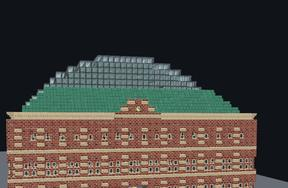
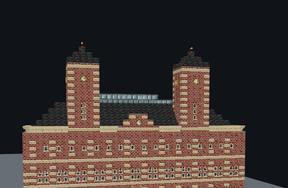
Fresh Studio thumbnails, docs and changelog for the realistic looks
studio_thumbs.mjs takes a port so it can run beside another Studio.

diff --git a/docs/STATION_GENERATOR.md b/docs/STATION_GENERATOR.md
@@ -59,7 +59,7 @@ Examples:
 | Style | modern; dutch/utrecht/leidsche rijn; german/s-bahn/hamburg; metro/u-bahn | modern |
 | Roof | `no roof`/`open`; `canopy`/`covered`; `hall`/`train shed` | canopy |
 | Canopy shape | `flat`; `butterfly`/`v roof`; `gable`/`gabled`/`heritage`/`pitched` (asks for canopies when no roof is given) | the building look's own (see **Canopies**) |
-| Train shed shape | `flat roof`; `arched`/`barrel`/`vault`/`curved`; `pointed`; `arches`/`vaults`/`multi span`/`several arches` (asks for a train shed) | the building look's own |
+| Train shed shape | `flat roof`; `arched`/`barrel`/`vault`/`curved`; `pointed`; `arches`/`vaults`/`multi span`/`several arches`; `ridge`/`furrow` (ridge-and-furrow pitched roofs) (asks for a train shed) | the building look's own |
 | Roof material | `glass`, `timber`/`wooden roof`, `steel` | style's own |
 | Floor | `light/dark paving`, `concrete`, `terrazzo`, `granite` | style's own |
 | Access | `step-free` (ramps at both platform ends), `no ramps`; `no tactile` | ramps and tactile edges on |
@@ -96,22 +96,23 @@ A girder block under each ridge, and butterfly fold joins the raised roof to the
 A hall roof is a train shed over every track and platform, framed in **station girders**: a connecting I-section block that joins girders on all six sides and any full wall face, so a frame reads as one piece instead of loose beams. Its colour follows the building look (steel, white, Gothic blue, Antwerp/Amsterdam/Grand Central/Paris green) and cycles with an empty-hand right-click.
 
 - **Frame:** columns on the platforms carry cross girders at regular rows (shifted a block or two where stairs, screens or doors are in the way), and longitudinal girders run along every column line, the eaves, the valleys and purlins so no roof span is longer than 8. Cross girders over a footbridge stand on short piers on its roof.
-- **Shapes:** flat; arched (a parabolic barrel vault); pointed (a two-centred Gothic arch, St Pancras); several arches (one vault per track pair, valleys over the platforms, Frankfurt). Vaults are glass above a clad lower band, with stepped girder ribs at every frame row and both ends, and a terminus gets a glass end screen over the head building.
+- **Shapes:** flat; arched (a parabolic barrel vault); pointed (a two-centred Gothic arch, St Pancras); several arches (one vault per track pair, valleys over the platforms, Frankfurt); ridge and furrow (one pitched roof per track pair with glass along each ridge, Mumbai, Kuala Lumpur and Zurich). Arched sheds rise less for flatter real halls (Berlin, Amsterdam, Bangkok, Hamburg). Vaults are glass above a clad lower band, with stepped girder ribs at every frame row and both ends, and a terminus gets a glass end screen over the head building.
 - **Heights:** the beams rise to 8 for an arched shed 16 or more wide, and to 11 over a footbridge or a building beside the tracks, so a shed now combines with both.
 - Every shape x building look x layout (1020 plans) passes the design rules and the station checks in a unit test.
 
 ## Station buildings and footbridge
 
-A building stands on the street side, 9 deep, over the middle of the platforms: an entrance ramp from the street, a ticket hall with a fare gate line (a wide gate in the middle), a ticket office window, MTR ticket machines, an information kiosk, benches, a clock over the entrance and departure boards on the end walls. A stair in the hall leads to the upper floor and the footbridge, whose stairs go down to every platform it serves.
+A building stands on the street side, 9 deep, over the middle of the platforms: an entrance ramp from the street, a ticket hall with a fare gate line (a wide gate in the middle), a ticket office window, MTR ticket machines, an information kiosk, benches, a clock over the entrance and departure boards on the end walls. An MTR station name panel (3 wide) hangs over every street door and an MTR tactile map stands just inside it; the name is left for you to write. A stair in the hall leads to the upper floor and the footbridge, whose stairs go down to every platform it serves.
 
 - **Building size** (`compact`, `city`/`regional`, `grand`/`monumental`/`hauptbahnhof`): a compact building is the two-storey block above. A **city** building adds a third storey and two-storey wings along the platform on both sides, covering about 70% of its length. A **grand** building has four storeys, wings along about 92% of the platform ending in three-storey pavilions, a clock tower over the entrance (clock faces on three sides, a pyramid cap), and a taller train shed. Masonry looks get hipped roofs (green copper for Amsterdam, Antwerp and Beaux-Arts; slate for St Pancras, Frankfurt and Hamburg); Modern and Munich stay flat. The wings' ground floors are waiting rooms on the paid side with a doorway onto platform 1 in every bay and benches along the street wall. Without a size word, a building is grand for 3 or more tracks or a platform of 100 or more, city for 2 tracks and 48 or more, otherwise compact. A terminus's head building grows the same way: a city one gets a storey over the whole concourse, a grand one two, and its street front follows the look (see **Terminus fronts** below).
 - **Upstairs waiting room** (buildings of three bays or more, with furniture): the end bay away from the hall stair is closed off by a framed glass partition with one doorway. Inside are benches along both long walls, bins in the far corners, a departure board on the end wall and a hanging clock. It is left out when that bay would touch the stair or the footbridge door.
 - **Terminus** (`terminus`): the tracks end at buffer stops (steel beams across each track's clearance, just past the last rail node) in front of a head building 12 deep across the whole width. Its floor runs level from the platform ends; the platform side is an open arcade under a lintel with clerestory windows. Two rows in from the buffers a gate line crosses every platform (a wide gate in the middle of each, glass barriers behind the tracks); departure boards and a clock hang over it facing the concourse. The concourse has the ticket office, MTR ticket machines, the kiosk and benches, a 3-wide street entrance with ramps, and roof lights. Every platform, islands included, is reached step-free through the gates, so a terminus needs no footbridge, and it may have a hall roof (a train shed) over the platforms. Ramps are only built at the open end.
 - **Terminus fronts** (city and grand termini; `BuildingStyle.Facade`): the street front of the head building is one of four kinds, from a photo study of 15 real terminals. Compact termini keep the plain front.
-  - **Red brick with towers** (Amsterdam, St Pancras, Tokyo): a hipped roof; Amsterdam gets twin clock towers at a quarter and three quarters of the front with a stepped gable between, St Pancras one tower with a tall spire, Tokyo copper-domed corner pavilions and a domed clock tower (a gable with a clock at city size).
+  - **Red brick with towers** (Amsterdam, St Pancras, Tokyo): a hipped roof; Amsterdam gets twin clock towers at a quarter and three quarters of the front with a stepped gable between, St Pancras one tower with a slate spire and pinnacles, Tokyo slate-domed octagonal corner pavilions and a domed clock tower (a gable with a clock at city size) over a round-arched entrance and arcade. The twin towers and the St Pancras spire also come at city size. Pointed arches frame the St Pancras and Mumbai entrances.
   - **Giant arched windows** (Zurich, Antwerp, Hamburg, Frankfurt): whole-block glass in a stone ring, with glazing bars, rising almost to the roof; one arch over the entrance (Zurich, Antwerp), two (Hamburg, with its clock tower near one end) or three (Frankfurt). Antwerp's tower has a dome; Zurich has an attic with a clock and statues instead of a tower.
   - **Beaux-Arts** (Grand Central, Paris, Milan): a flat roof, tall round-headed windows between pairs of quartz columns (three, or one great window for Paris and narrow fronts), and a raised attic over the entrance with a clock and a statue group. Paris adds statues along the parapet; a grand Milan steps up to a second, taller attic.
-  - **Glass** (Utrecht, Munich, Berlin, Hong Kong, Beijing): a curtain wall with mullions every three blocks and a band at each floor; Munich adds a deep concrete canopy over the street, a grand Berlin a tall glass tower near one corner (fronts 20 or more wide), Hong Kong a white roof that sweeps up to a crest, and Beijing a roof running two blocks out over the street with its edge turned up.
+  - **Glass** (Utrecht, Munich, Berlin, Hong Kong, Beijing): a curtain wall with mullions every three blocks and a band at each floor; Munich adds a deep concrete canopy over the street, a grand Berlin a tall glass tower near one corner (fronts 20 or more wide), Hong Kong a white roof that sweeps up to a crest with glazed ends, Utrecht a low wave roof, and Beijing a roof running two blocks out over the street with its edge and corners turned up. Munich has ribbon windows without mullions.
+  - **Asian heritage** (Bangkok, Kuala Lumpur, Mumbai): Bangkok a low segmental glass vault over the entrance with a clock, columns along the front and flat-roofed end pavilions; Kuala Lumpur a raised attic with pinnacles, octagonal corner towers with open domed kiosks (chhatris), kiosks along the parapet and pointed arches along the ground floor; Mumbai a red-tiled roof, a banded pointed entrance arch, an onion-domed octagonal clock tower in the middle, spired corner towers and smaller domes between.
 - **Hub** (`hub`): a terminus whose outer tracks carry on through. The split grows with size (`StationGeometry.hubThrough`): 4 and 6 tracks keep one through track a side; 8 and 10 tracks get two a side, so the outermost islands have trains running through on both sides (like a big interchange where the outer pairs run on and the middle ones end). Narrow platforms (under 6 wide, too narrow for a lift) keep one a side. The inner tracks end at buffer stops in front of the head building as above; the head building spans the platforms beside a bay track and its side walls stand just outside the outer bay tracks, so every buffer stop is indoors (`TrackLayout.bay(PlatformBand)`, `headFrom()`, `headTo()`); the through tracks pass beside it to the far end of the site (their rail nodes stay at the platform ends; extend the line from there past the hall). The street in front of the head is open ground. Islands with no bay track get a footbridge across every platform with stairs and a lift on each (`StationLayout.outerIslands`), so every platform stays step-free through the gates. The train shed covers all tracks.
 - **Wayfinding at a terminus:** each platform gets its own colour (blue, green, orange, yellow in turn, from the metro tiles) as a floor stripe either side of its gates and on the lintel above them, with a big platform number sign hung under the lintel. On a footbridge, each platform also gets a number sign under the deck beside its pier.
 - **Street entrance:** a through station with island platforms needs a way onto them that does not cross a track. A building's footbridge gives one; without a building the station gets a footbridge of its own. When a side platform is on an edge, its stair is the way up. When tracks run along both edges, a street entrance 6 wide stands beside the first track (`StationGeometry.streetEntrance`, `StationLayout.street()`): paved like the platforms with ramps at both ends, railed off along the track, with a glazed stair and a lift up to the footbridge, laid out as on a side platform. A train shed starts at the first track, so the entrance stays open to the sky.

diff --git a/CHANGELOG.md b/CHANGELOG.md
@@ -7,13 +7,13 @@
 - **Describe a station and it is built:** plain English in, ATA blocks out. 1 to 10 tracks (up to 20 with platforms one by one), 16 to 300 blocks long, side or island platforms, roofs, ramps, name signs, rail nodes at the platform ends. `/ata_station plan` shows an outline, `/ata_station confirm` builds it; cancel and undo work at any point. Fully offline, operators only. Terrain is only changed after you approve it, and existing MTR rail nodes are never touched. See docs/STATION_GENERATOR.md.
 - **Station Wrench:** the generator without commands. Pick a city look (and one to mix in), station, terminus or hub, tracks, platforms, width, length, roof, building and name, then *Place in front of me*, *Build it!*, *Undo* or *Clear*. A 3D preview updates as you go. Eighteen presets and a typed description are on the Advanced page.
 - **Station Studio:** the same generator in your browser, on your own computer (`/ata_studio` or the wrench button). Big 3D preview with the game's own models, several views (including a terminus front from the street), and buttons that build in your world. Listens on 127.0.0.1 only. **Walk** through the planned station in first person, from the street through the gates to the platforms, riding escalators, travelators and lifts.
-- **Eighteen city looks:** Utrecht, Amsterdam, St Pancras, Antwerp, Frankfurt, Hamburg, Munich, Grand Central, Tokyo, Zurich, Paris, Milan, Berlin, Hong Kong, Beijing, Bangkok (Hua Lamphong's great arched window between white columns), Kuala Lumpur (white walls, a dome, minarets and domed kiosks) and Mumbai (CSMT's sandstone, Gothic turrets and great stone dome), plus words such as london, swiss or japan. Looks can be mixed: "american station, utrecht and hamburg combined".
+- **Eighteen city looks:** Utrecht, Amsterdam, St Pancras, Antwerp, Frankfurt, Hamburg, Munich, Grand Central, Tokyo, Zurich, Paris, Milan, Berlin, Hong Kong, Beijing, Bangkok (a low glass vault over the entrance between columns), Kuala Lumpur (white walls, pinnacles, pointed arches and open domed kiosks on octagonal towers) and Mumbai (sandstone and red tiles, a banded pointed arch, an onion-domed clock tower and spired corner towers); towers, domes, arches and sheds follow each city's real station, plus words such as london, swiss or japan. Looks can be mixed: "american station, utrecht and hamburg combined".
 - **Station buildings:** ticket hall with gates, office, MTR ticket machines, kiosk, clock and boards, in compact, city (three storeys with wings) and grand (four storeys, pavilions, clock tower, hipped roofs) sizes. Larger buildings get an upstairs waiting room.
-- **Termini, hubs and train sheds:** tracks end at buffer stops in front of a head building with a gate line, and every platform is step-free from the concourse. A hub ends its middle tracks and runs the outer ones through. City and grand termini get a front modelled on real stations: brick with clock towers, giant arched windows, Beaux-Arts stone, or glass. Train sheds come flat, arched, pointed or as several arches, framed in the new **station girder** block (four colours).
+- **Termini, hubs and train sheds:** tracks end at buffer stops in front of a head building with a gate line, and every platform is step-free from the concourse. A hub ends its middle tracks and runs the outer ones through. City and grand termini get a front modelled on real stations: brick with clock towers, giant arched windows, Beaux-Arts stone, or glass. Train sheds come flat, arched, pointed, as several arches or as ridge-and-furrow pitched roofs, framed in the new **station girder** block (four colours).
 - **Canopies by look:** a **butterfly** (V) roof for the German looks, a **gable** for the heritage looks, flat for the rest. The butterfly is framed like the real thing: arms on the columns and a valley beam, with no girders hanging under its eaves. Say `flat`, `butterfly` or `gable` to pick one. Canopies stand 4 high on fewer columns.
 - **Footbridges, lifts and more:** a footbridge with stairs to every platform, glazed where it rises through a canopy. Platforms with room get a working MTR lift, which undo removes; at the platform it opens both ways, under the bridge and onto the platform behind it. Options for up escalators, stairs both ways, enclosed stairwells, travelators along long platforms and a gravel or andesite track bed. Island platforms are never left to be reached across a track: without a building they get a footbridge, and with tracks along both edges a street entrance beside the first track with its own stair and lift.
 - **Platforms one by one:** give each platform its own type, width (3-20), length and roof, as plain words (`platform 2: island 12 wide 120 long open;`).
-- **Fitted out:** departure screens hang from the canopy, centred on the platform on a cross beam (back to back on wide islands); under a train shed too high to hang from, they are two blocks joined into one display fixed to a column above head height, with help points, benches, ceiling speakers and platform numbers. Each platform has its own colour stripe at the gates.
+- **Fitted out:** departure screens hang from the canopy, centred on the platform on a cross beam (back to back on wide islands); under a train shed too high to hang from, they are two blocks joined into one display fixed to a column above head height, with help points, benches, ceiling speakers and platform numbers. Every street door gets an MTR station name panel to write on, with an MTR tactile map inside. Each platform has its own colour stripe at the gates.
 - **Registered in MTR:** a built station adds itself as an MTR station with its name and area, so screens and announcements work at once. An MTR station already there is left alone; undo removes the one it added.
 - **Checked before building:** boarding edges, rail nodes, roof cover, headroom, step-free access, lighting and nothing left floating. A failed check stops the build.
 - **Fast:** builds use a fifth of each server tick, so most stations finish in under a second. Big stations are planned on a separate thread, so the server keeps ticking. Stations longer than the render distance load the chunks they need.
